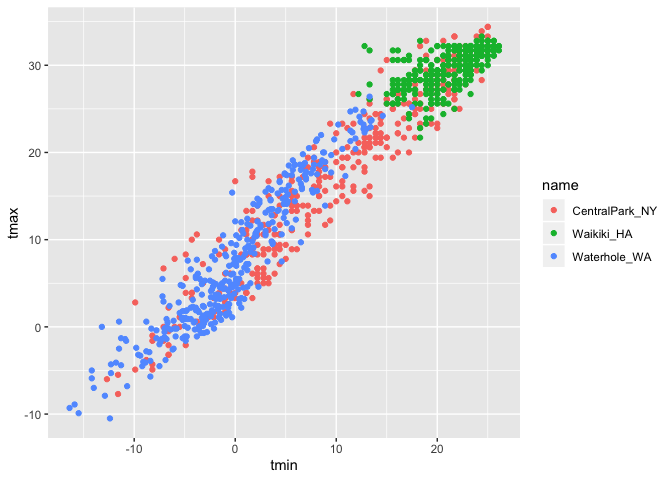
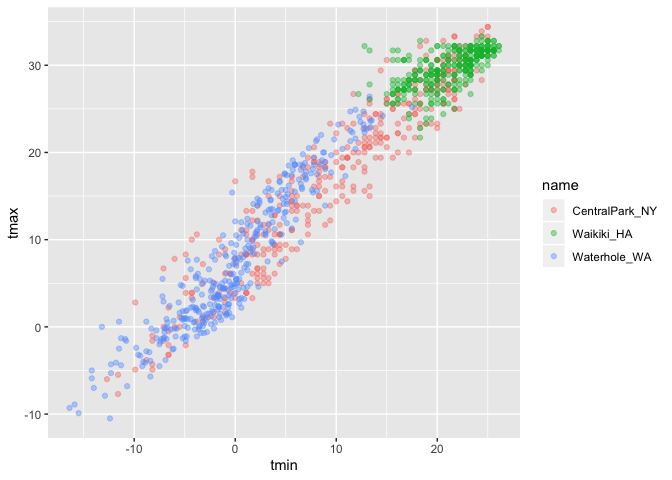
facets, geom smooth code

Changed region(s): [[0.125, 0.0312, 0.75, 0.8438], [0.8125, 0.4688, 0.8438, 0.5], [0.0938, 0.8438, 0.125, 0.875]]

diff --git a/9.26.2019.md b/9.26.2019.md
@@ -126,7 +126,7 @@ Adding color…
 
 ``` r
 ggplot(weather_df, aes(x = tmin, y = tmax)) + 
-  geom_point(aes(color = name))
+  geom_point(aes(color = name), alpha = 0.4)
 ```
 
     ## Warning: Removed 15 rows containing missing values (geom_point).
@@ -136,4 +136,69 @@ ggplot(weather_df, aes(x = tmin, y = tmax)) +
 ``` r
 ##
 ## Adding color into the different points, each color represents a different name (weather station location)
+## Alpha = 0.4 adds transparency to data points
+```
+
+## Adding line through the data (smooth, curvy best line), se= FALSE turns error bars off
+
+  - First
+
+<!-- end list -->
+
+``` r
+ggplot(weather_df, aes(x = tmin, y = tmax)) + 
+  geom_point(aes(color = name), alpha = .5) +
+  geom_smooth(se = FALSE)
+```
+
+    ## `geom_smooth()` using method = 'gam' and formula 'y ~ s(x, bs = "cs")'
+
+    ## Warning: Removed 15 rows containing non-finite values (stat_smooth).
+
+    ## Warning: Removed 15 rows containing missing values (geom_point).
+
+![](9.26.2019_files/figure-gfm/unnamed-chunk-6-1.png)<!-- --> \* vs, not
+defining all aesthetic mappings for everything (all three variables),
+color matters in geom\_point but not in geom\_smooth
+
+``` r
+ggplot(weather_df, aes(x = tmin, y = tmax, color = name)) + 
+  geom_point(alpha = .5) +
+  geom_smooth(se = FALSE)
+```
+
+    ## `geom_smooth()` using method = 'loess' and formula 'y ~ x'
+
+    ## Warning: Removed 15 rows containing non-finite values (stat_smooth).
+
+    ## Warning: Removed 15 rows containing missing values (geom_point).
+
+![](9.26.2019_files/figure-gfm/unnamed-chunk-7-1.png)<!-- -->
+
+``` r
+##
+## Gives you smooth lines for each variable (one for each location of weather temps)
+```
+
+## Want to turn one panel plot into three panel plot, one plot for each weather station
+
+``` r
+ggplot(weather_df, aes(x = tmin, y = tmax, color = name)) + 
+  geom_point(alpha = .5) +
+  geom_smooth(se = FALSE) + 
+  facet_grid(. ~ name)
+```
+
+    ## `geom_smooth()` using method = 'loess' and formula 'y ~ x'
+
+    ## Warning: Removed 15 rows containing non-finite values (stat_smooth).
+
+    ## Warning: Removed 15 rows containing missing values (geom_point).
+
+![](9.26.2019_files/figure-gfm/unnamed-chunk-8-1.png)<!-- -->
+
+``` r
+##
+## Facets break out your plot by the variable you specify (here, you break out by name)
+##
 ```
